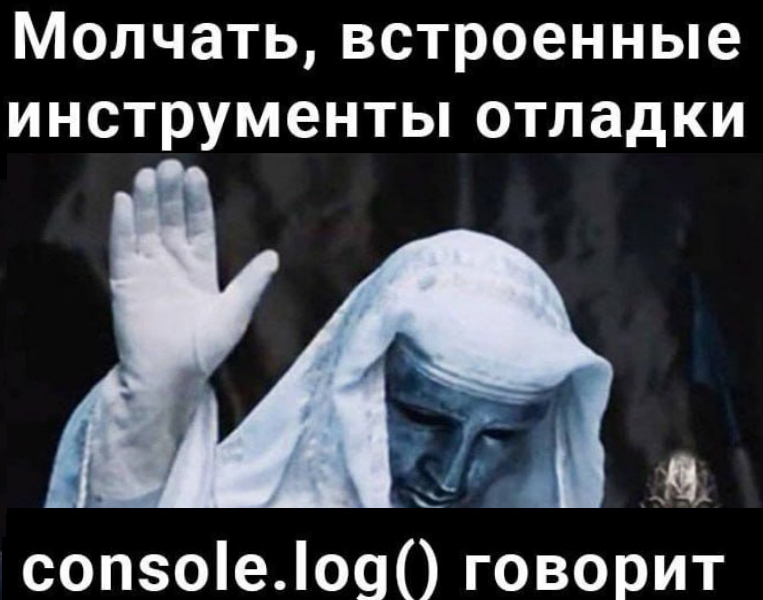
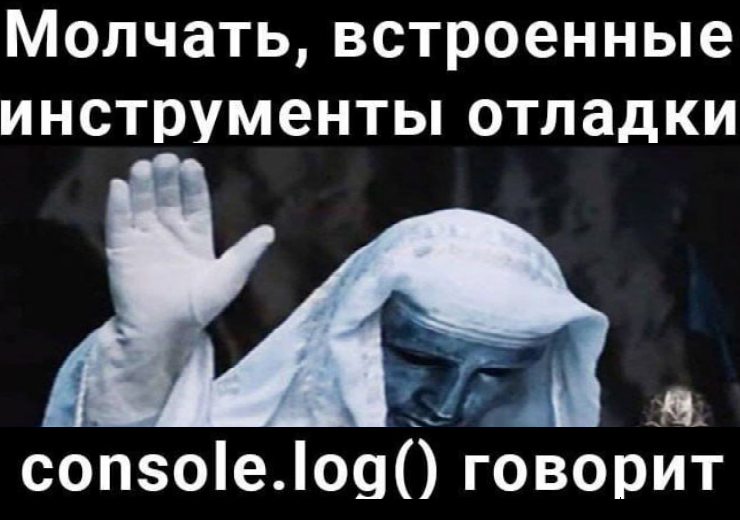
fix: scale  cssMemeSlider-task (Mon, Sep 16, 2024 01:34:24 AM)

diff --git a/cssMemeSlider/style.css b/cssMemeSlider/style.css
@@ -1,9 +1,10 @@
+@import url('https://fonts.googleapis.com/css2?family=Montserrat:ital,wght@0,100..900;1,100..900&display=swap');
 .slider {
     margin-left: auto;
     margin-right: auto;
     position: static;
     width: 1000px;
-    height: 800px;
+    height: 700px;
     overflow: hidden;
 }
 .slides {
@@ -20,18 +21,17 @@ display: flex;
 flex-direction: column;
 }
 .div_btn
-{   margin-top: 10px;
-    width: 200px;
+{   
+    width: 160px;
     height: auto;
     position: static;
-    margin-left: auto;
-    margin-right: auto;
     display: flex;
     flex-direction: row;
     
 }
 body
 {
+    background-color:rgb(17, 17, 17);
     margin: 0;
     height: 100vh;
     display: flex;
@@ -42,7 +42,7 @@ body
     width: 10px;
     height: 10px;
     border-radius: 50%;
-    background-color: blue;
+    background-color: rgb(59, 59, 199);
     margin: 10px;
     cursor: pointer;
     transition: background-color 0.3s, border 0.3s;
@@ -54,5 +54,25 @@ body
 
 .button.active {
     background-color: transparent;
-    border: 2px solid blue;
+    border: 2px solid rgb(59, 59, 199);
+}
+.sub
+{  
+    color: white; /* Цвет текста белый */
+    font-family: 'Montserrat', sans-serif; /* Используем шрифт Montserrat */
+}
+.bottom
+{
+    margin-top: 10px;
+    display: flex;
+    flex-direction: row;
+    justify-content: space-between;
+}
+.sub.active
+{
+    display: block;
+}
+.disabled
+{
+    display: none;
 }

diff --git a/cssMemeSlider/script.js b/cssMemeSlider/script.js
@@ -5,19 +5,38 @@ function showSlide(index,btn1) {
     currentSlide = index;
     const offset = -currentSlide * 100; // Вычислить смещение слайдов
     slides.style.transform = `translateX(${offset}%)`; // Переместить слайды
-deleteActive(btn1);
+Active(btn1);
+ActiveSub(index);
 }
 document.addEventListener("DOMContentLoaded", function() {
+  const subs = document.querySelectorAll('.sub');
+  subs.forEach((sub,index) => {
+    sub.classList.add('disabled');
+    sub.classList.remove('active');
+});
+subs[0].classList.add('active');
+subs[0].classList.add('disabled');
+
   const btns = document.querySelectorAll('.button');
   btns.forEach((btn,index) => {
     btn.addEventListener('click',  () => showSlide(index,btn));
 });
 });
-function deleteActive(btn1)
+function Active(btn1)
 {
   const btns = document.querySelectorAll('.button');
   btns.forEach((btn,index) => {
     btn.classList.remove('active');
 });
 btn1.classList.add('active');
+}
+function ActiveSub(index)
+{
+  const subs = document.querySelectorAll('.sub');
+  subs.forEach((sub,index) => {
+    sub.classList.add('disabled');
+    sub.classList.remove('active');
+});
+subs[index].classList.add('active');
+subs[index].classList.add('disabled');
 }

diff --git a/cssMemeSlider/index.html b/cssMemeSlider/index.html
@@ -16,9 +16,12 @@
         <img src="4.png" class="slide" alt="Картинка 4">
           </div>
       </div>
+      <div class="bottom">
       <div class="div_sub">
-<span>В пиве сила и мудрость</span>
-<span>Нет билета?</span>
+            <span class="sub">В пиве сила и мудрость</span>
+            <span  class="sub">Нет билета?</span>
+            <span  class="sub">Эстетика удалёнки</span>
+            <span  class="sub">Console.log говорит</span>
     </div>
       <div class="div_btn">
         <div class="button"></div>
@@ -26,6 +29,7 @@
         <div class="button" ></div>
         <div class="button" ></div>
     </div>
+</div>
 </div>
 </body>
 <script src="script.js"></script>
